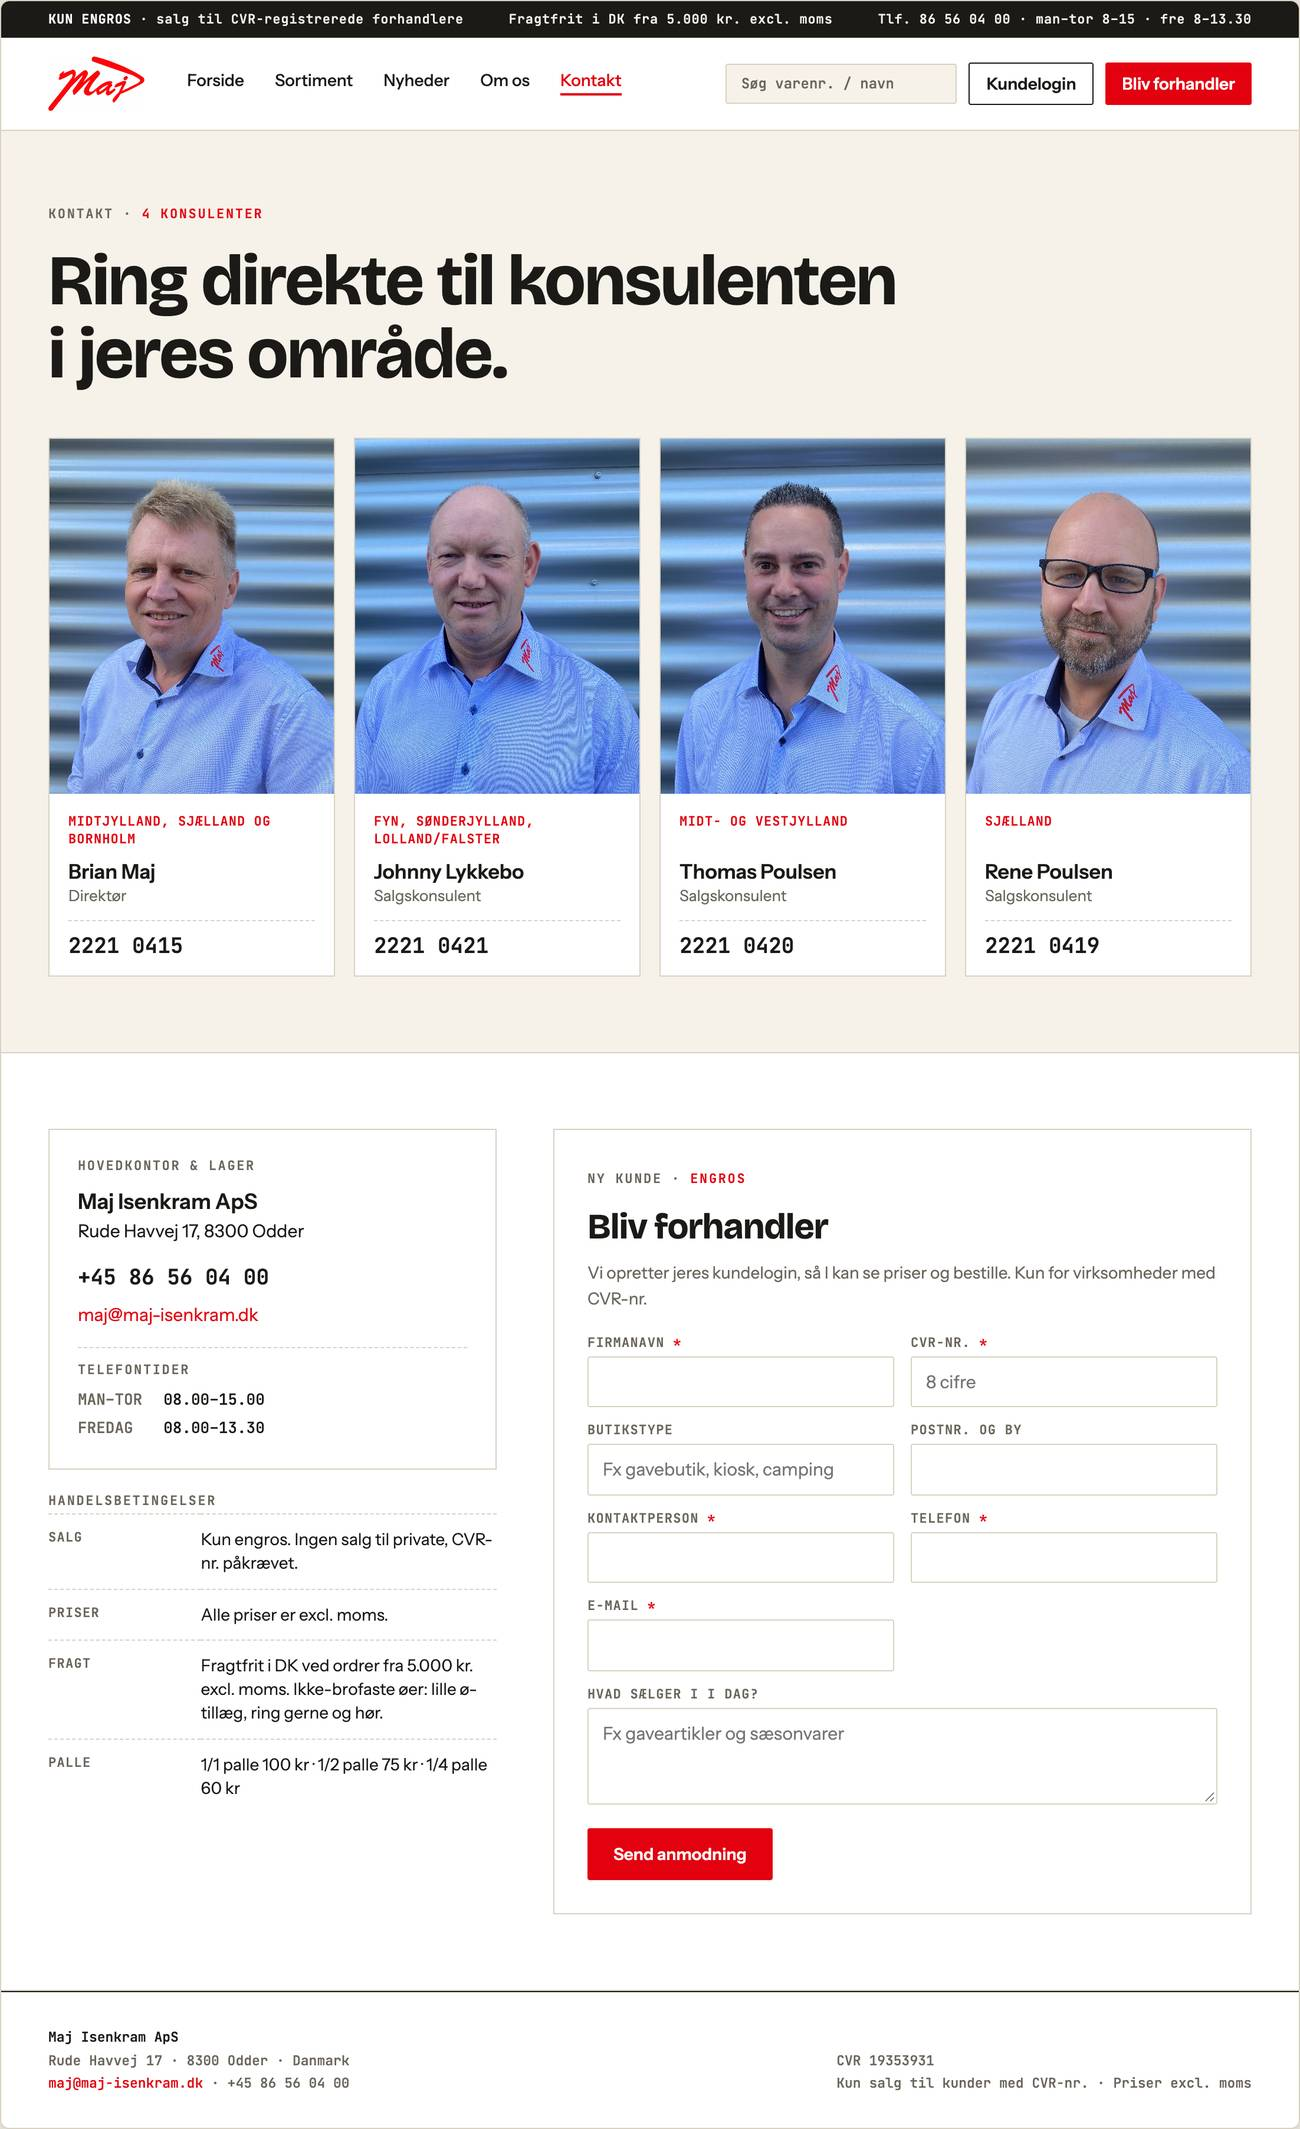
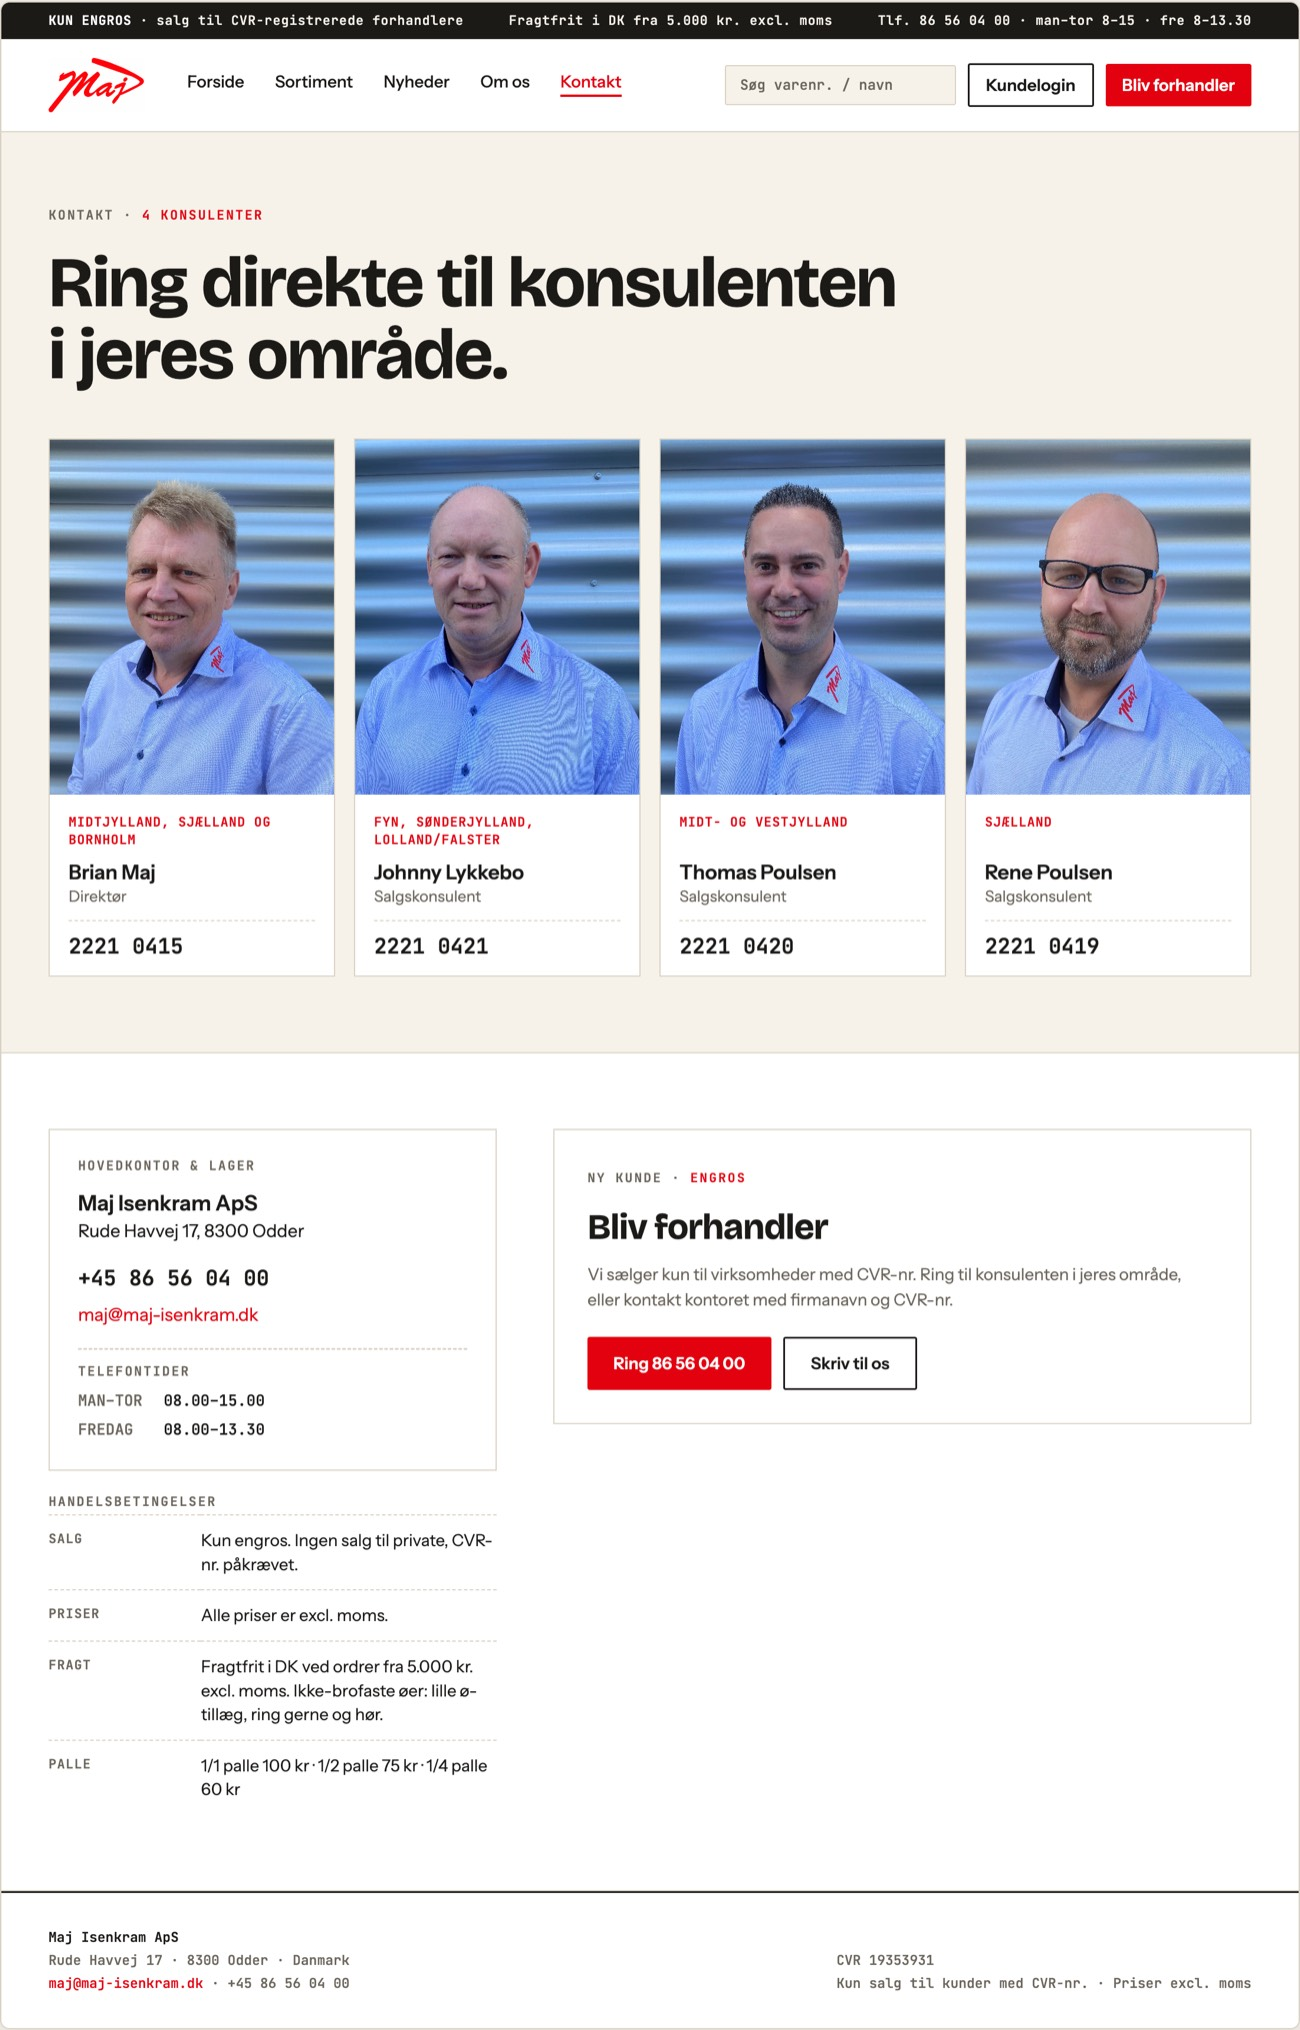
Maj Isenkram: drop the Bliv forhandler form from Kontakt
The CVR sign-up form was new functionality their legacy site does not
have. Replace it with a Ny kunde block that points to phone and mail,
recapture the Kontakt after-shots, and update the section copy.

diff --git a/p/maj-isenkram-d60ef932-49e2-4a0e-95a8-99559fa05ff0/index.html b/p/maj-isenkram-d60ef932-49e2-4a0e-95a8-99559fa05ff0/index.html
@@ -126,11 +126,11 @@ title: "Maj Isenkram: sådan kunne jeres nye hjemmeside se ud"
       <div class="copy">
         <div class="eyebrow">Side 3 af 3</div>
         <h2>Kontakt</h2>
-        <p>Jeres fire konsulenter med region og direkte nummer er noget af det vigtigste indhold på siden. Nu står de øverst, så en butik straks kan se, hvem der dækker dens område. Fragt- og pallebetingelserne er samlet i en overskuelig tabel, og nye kunder kan søge om en konto med CVR-nr. direkte fra siden.</p>
+        <p>Jeres fire konsulenter med region og direkte nummer er noget af det vigtigste indhold på siden. Nu står de øverst, så en butik straks kan se, hvem der dækker dens område. Fragt- og pallebetingelserne er samlet i en overskuelig tabel, og nye kunder kan straks se, hvem de skal ringe til for at blive forhandler.</p>
         <ul class="note-row">
           <li>Region, navn og direkte nummer for hver konsulent</li>
           <li>Handelsbetingelser samlet ét sted</li>
-          <li>Formular til nye forhandlere med CVR-felt</li>
+          <li>Én tydelig vej for nye forhandlere: ring eller skriv med CVR-nr.</li>
         </ul>
       </div>
     </div>
